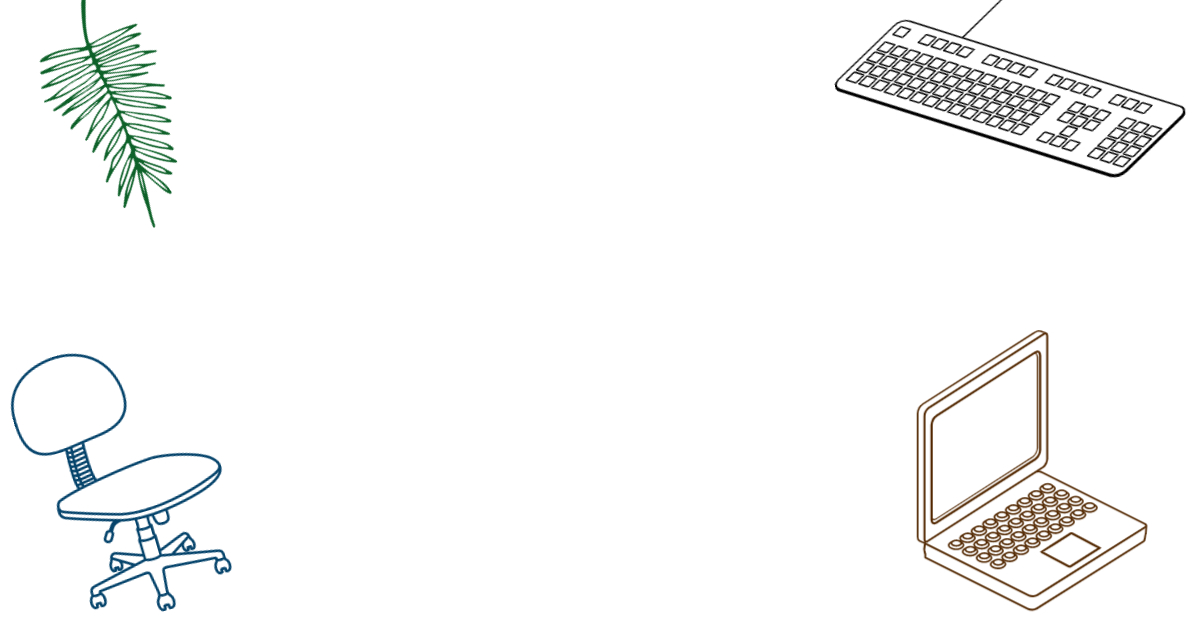
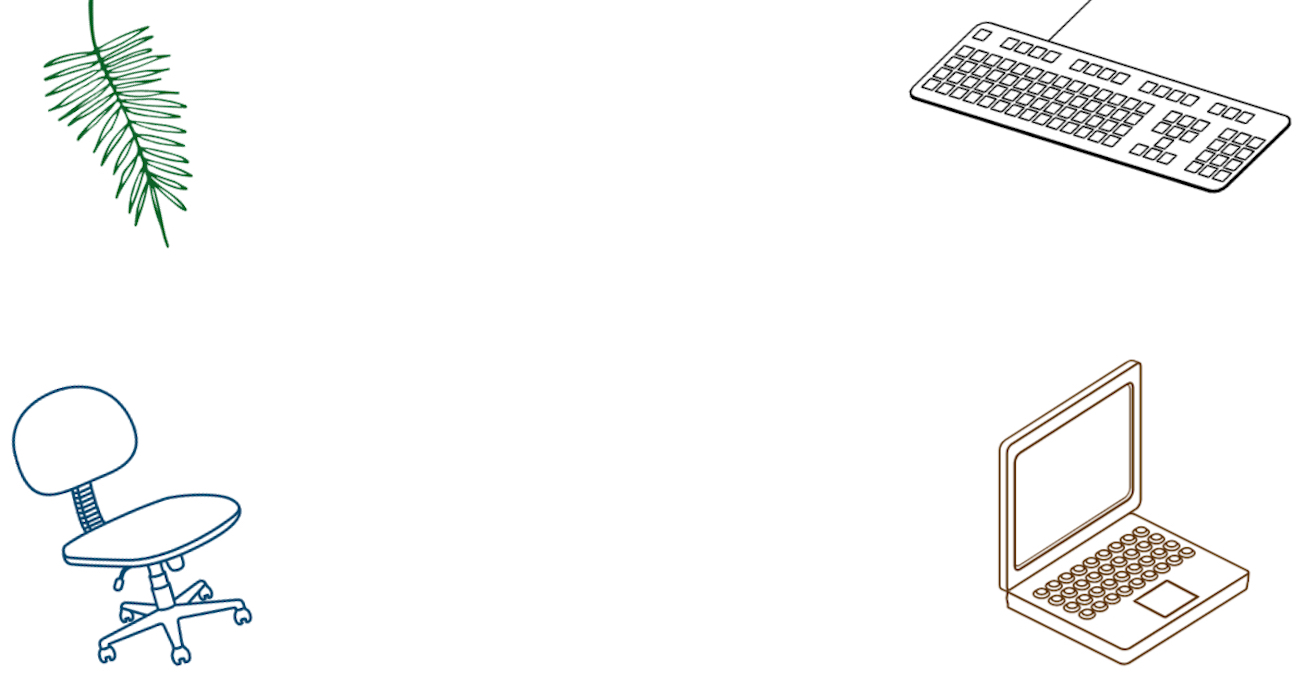
background img resize

diff --git a/src/pages/about.js b/src/pages/about.js
@@ -19,8 +19,8 @@ export default class about extends Component {
                     </article>
                     <article className={styles.aboutInfo}>
                         <h3>Hi there! I'm Jane, a full-stack software engineer based in NYC.</h3>
-                        <p>I was born in Korea, raised in Kentucky, and moved to NYC 4 years ago to pursue my master's degree in International Education at <a href="https://steinhardt.nyu.edu/programs/international-education" target="_blank" style={style.color}>NYU</a>. After I graduated, I worked at a non-profit International Student Exchange program to help deliver meaningful intercultural experiences for students around the world.</p>
-                        <p>While I worked as an International Educator, I was facinated by the tech field and saw the power of technology, which allowed us to connect and work with people around the country. So I taught myself Javascipt and completed one of the most well-known Software Engineer program for women at <a href="https://www.gracehopper.com/" target="_blank" style={style.color}>Grace Hopper Program.</a></p>
+                        <p>I was born in Korea, raised in Kentucky, and moved to NYC 4 years ago to pursue my master's degree in International Education at <a href="https://steinhardt.nyu.edu/programs/international-education" target="_blank" rel="noopener noreferrer" style={style.color}>NYU</a>. After I graduated, I worked at a non-profit International Student Exchange program to help deliver meaningful intercultural experiences for students around the world.</p>
+                        <p>While I worked as an International Educator, I was facinated by the tech field and saw the power of technology, which allowed us to connect and work with people around the country. So I taught myself Javascipt and completed one of the most well-known Software Engineer program for women at <a href="https://www.gracehopper.com/" target="_blank" rel="noopener noreferrer" style={style.color}>Grace Hopper Program.</a></p>
                         <p>Besides my passion for coding, I love reading, traveling, and learning new languages! I commit to being a lifelong learner and I am excited to begin my new journey as a software engineer.</p>
                         <button type="button" className="btn-primary">RESUME</button>
                     </article>
